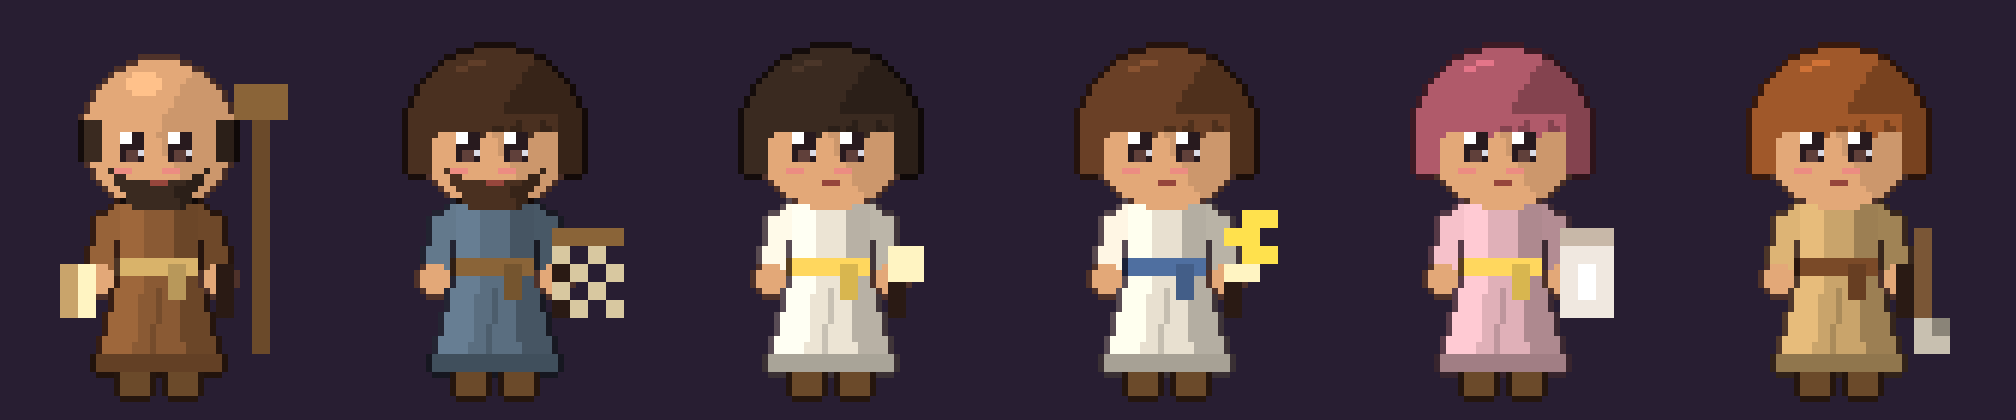
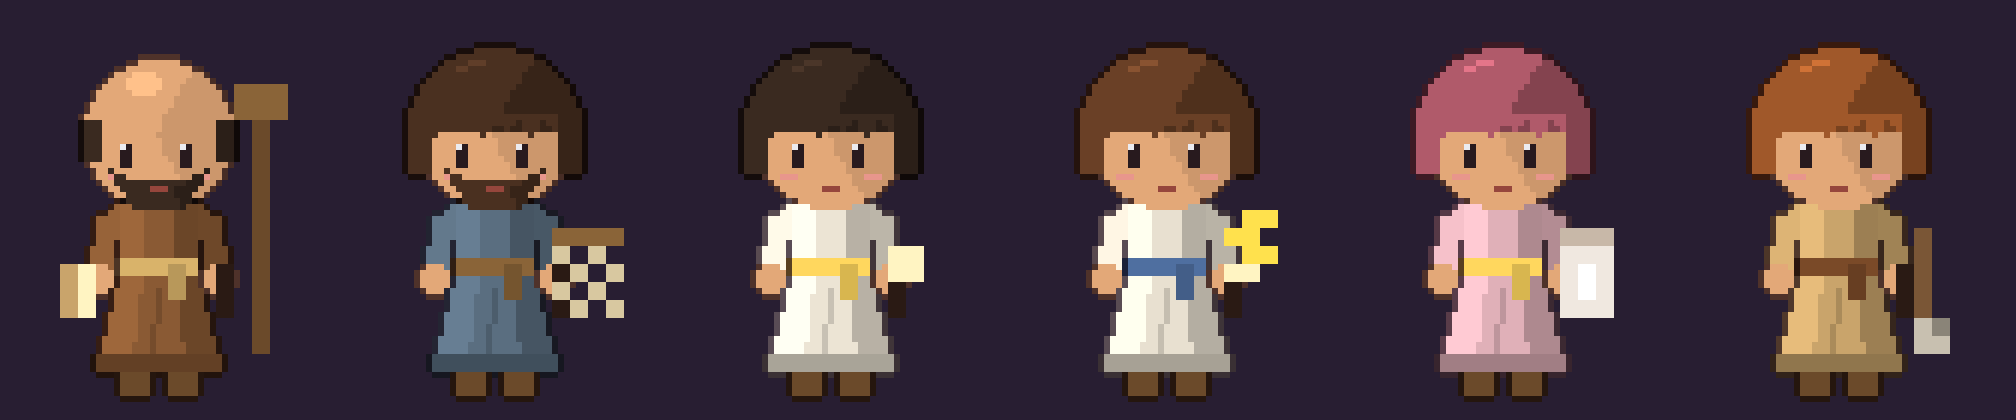
fix: 人物眼睛改小改簡單（原本太大、像在瞪人）

diff --git a/tools/make_people_hd.py b/tools/make_people_hd.py
@@ -78,18 +78,17 @@ def body(s, f, evo):
     if s["long"]:
         d.rectangle([CX - HEAD_R - 2, hy, CX - HEAD_R + 1, top + 6], fill=hair)
         d.rectangle([CX + HEAD_R - 1, hy, CX + HEAD_R + 2, top + 6], fill=sh(hair, 0.75))
-    # 大眼睛：深色瞳孔＋兩點高光，下面一點腮紅
-    for ex in (CX - 6, CX + 2):
-        d.rectangle([ex, hy, ex + 3, hy + 4], fill=(40, 26, 30, 255))
-        d.rectangle([ex + 1, hy + 3, ex + 2, hy + 4], fill=(96, 64, 58, 255))
-        d.rectangle([ex, hy, ex + 1, hy + 1], fill=(255, 255, 255, 255))
-        d.point((ex + 3, hy + 3), fill=(220, 220, 230, 255))
-        d.rectangle([ex - 1, hy + 6, ex + 1, hy + 6], fill=(236, 140, 130, 255))
+    # 眼睛：小而簡單（2×3 的深色塊，只留一點高光），間距靠近、位置偏低，臉才不會像在瞪人
+    for ex in (CX - 6, CX + 4):
+        d.rectangle([ex, hy + 2, ex + 1, hy + 5], fill=(40, 26, 30, 255))
+        d.point((ex, hy + 2), fill=(235, 235, 240, 255))
+    d.rectangle([CX - 8, hy + 7, CX - 6, hy + 7], fill=(232, 150, 140, 255))   # 淡淡的腮紅
+    d.rectangle([CX + 6, hy + 7, CX + 8, hy + 7], fill=(232, 150, 140, 255))
     if s["beard"]:
         b = rgb(s["beard"])
         d.polygon([(CX - 8, hy + 6), (CX - 4, hy + 12), (CX + 4, hy + 12), (CX + 8, hy + 6), (CX + 4, hy + 8), (CX - 4, hy + 8)], fill=b)
         d.polygon([(CX + 3, hy + 9), (CX + 8, hy + 6), (CX + 4, hy + 12)], fill=sh(b, 0.75))
-    d.line([(CX - 1, hy + 8), (CX + 1, hy + 8)], fill=(150, 70, 60, 255))
+    d.line([(CX - 1, hy + 9), (CX + 1, hy + 9)], fill=(150, 70, 60, 255))
     if evo:
         d.ellipse([CX - 9, hy - HEAD_R - 7, CX + 9, hy - HEAD_R - 2], outline=rgb("#ffd75e"), width=2)
     return im
